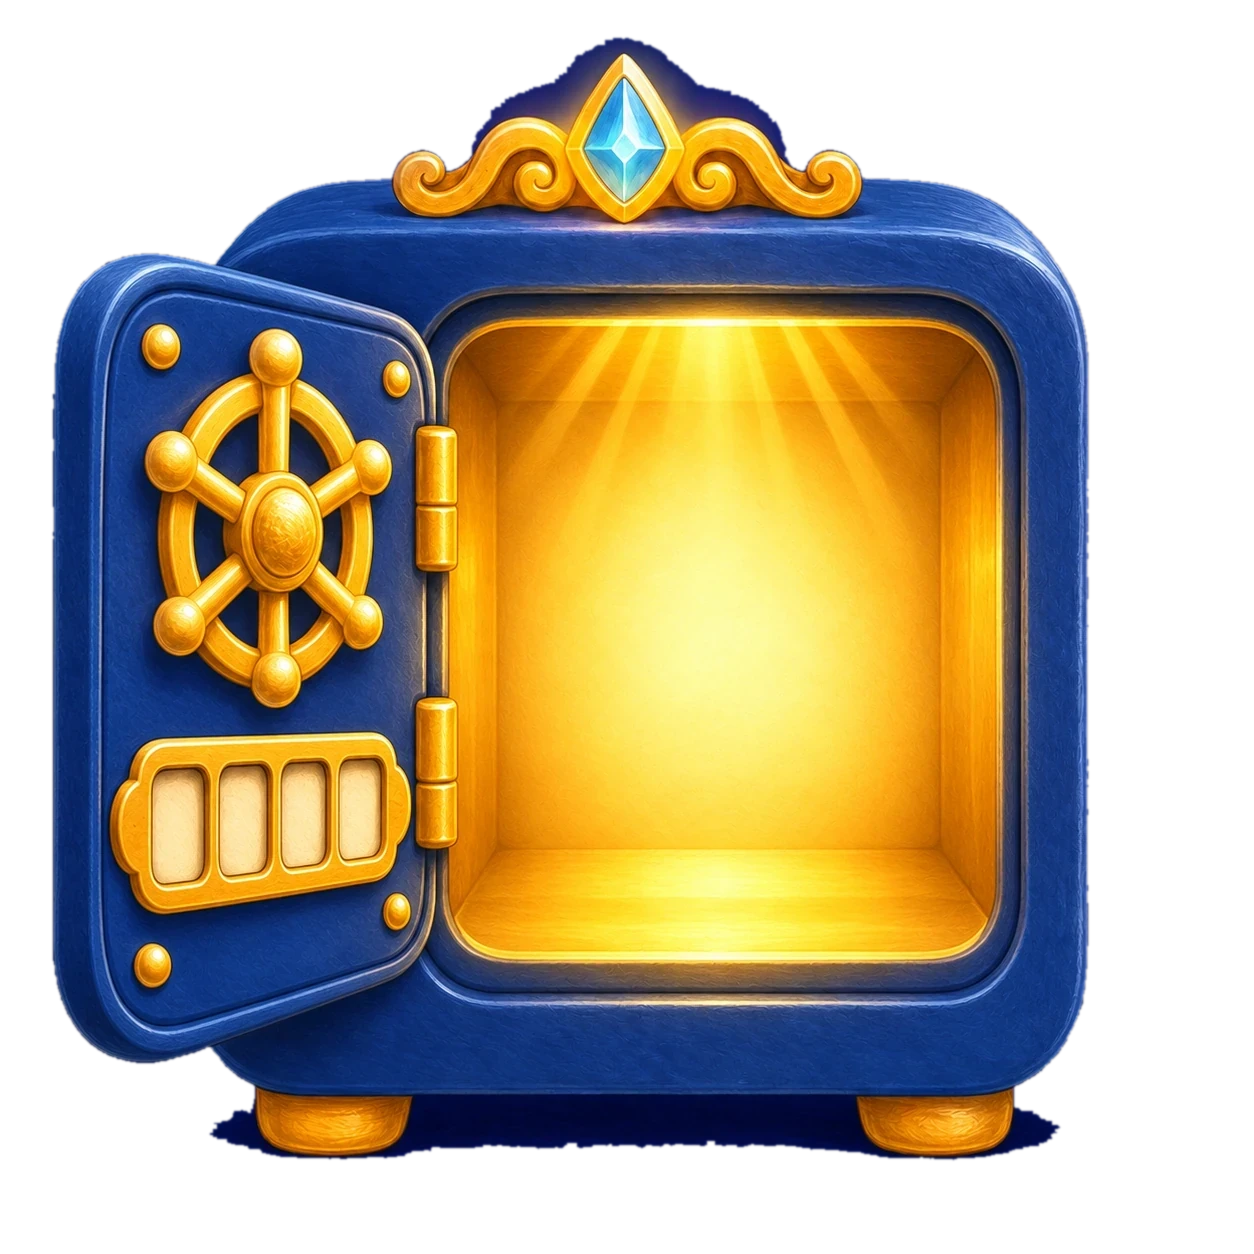
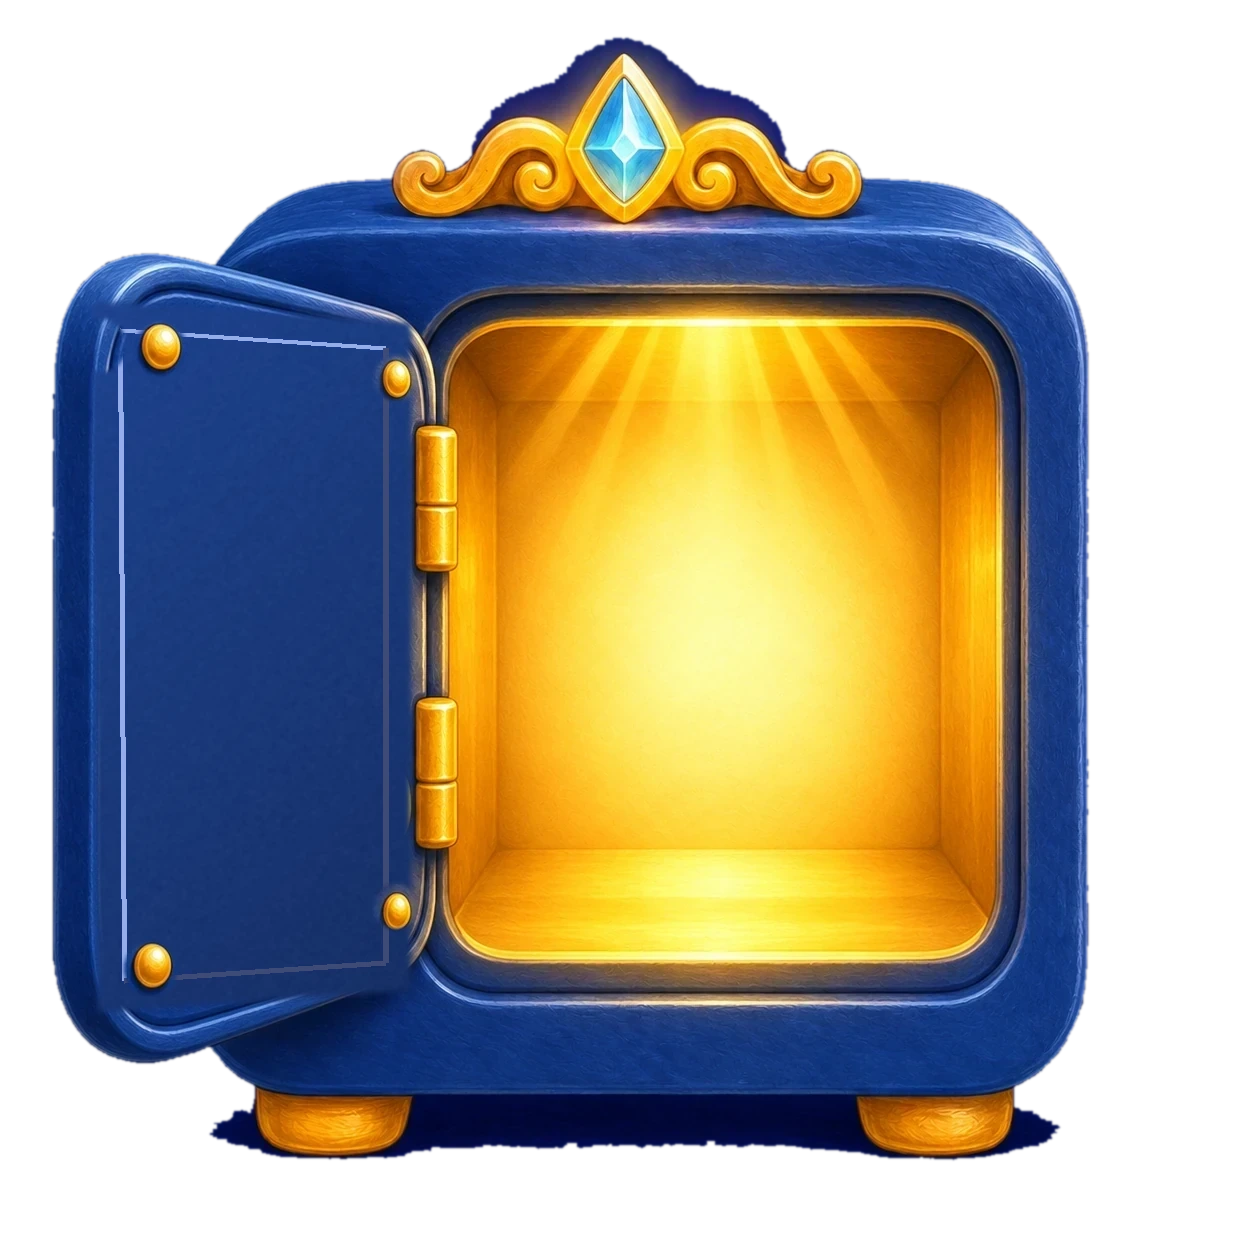
Tresor: offene Tür zeigt die Innenseite (ohne Rad und Code-Feld), Bilder wechseln ohne Überblenden
Die Besitzerin hat bemerkt, dass Rad und Code-Knöpfe auf der offenen Tür zu sehen waren.
tresor_auf.webp: Innenseite der Tür neu gemalt (Original im Verlauf). k4.css: kein Überblenden
mehr zwischen tresor_zu und tresor_auf, sonst stand das Rad kurz im offenen Tresor.

Claude-Session: https://claude.ai/code/session_01XbiCnE4hpDFHNM9KPuJJt1

Changed region(s): [[0.0622, 0.2488, 0.3421, 0.8086]]

diff --git a/app/src/v8/k4.css b/app/src/v8/k4.css
@@ -229,8 +229,10 @@
   pointer-events: none;
 }
 .tv.auf .tv-licht { opacity: 1; transform: scale(1); animation: tv-puls 2.4s 1.6s ease-in-out infinite; }
-.tv-zu { z-index: 1; transition: opacity .5s .2s; }
-.tv-auf { z-index: 1; opacity: 0; transform: scale(.96); transition: opacity .6s .3s, transform 1s .3s cubic-bezier(.2, 1.3, .4, 1); }
+.tv-zu { z-index: 1; transition: opacity 0s .3s; }
+/* Kein Überblenden: sonst steht das Rad der geschlossenen Tür kurz IM offenen Tresor (Fehler der Besitzerin, 25.11.).
+   Die Bilder wechseln in einem Moment; das Aufgehen zeigen Federn (scale) und das goldene Licht. */
+.tv-auf { z-index: 1; opacity: 0; transform: scale(.92); transition: opacity 0s .3s, transform .9s .3s cubic-bezier(.2, 1.4, .4, 1); }
 .tv.auf .tv-zu { opacity: 0; }
 .tv.auf .tv-innen { opacity: 1; }
 .tv-innen img { width: 100%; height: 100%; object-fit: contain; display: block; }
